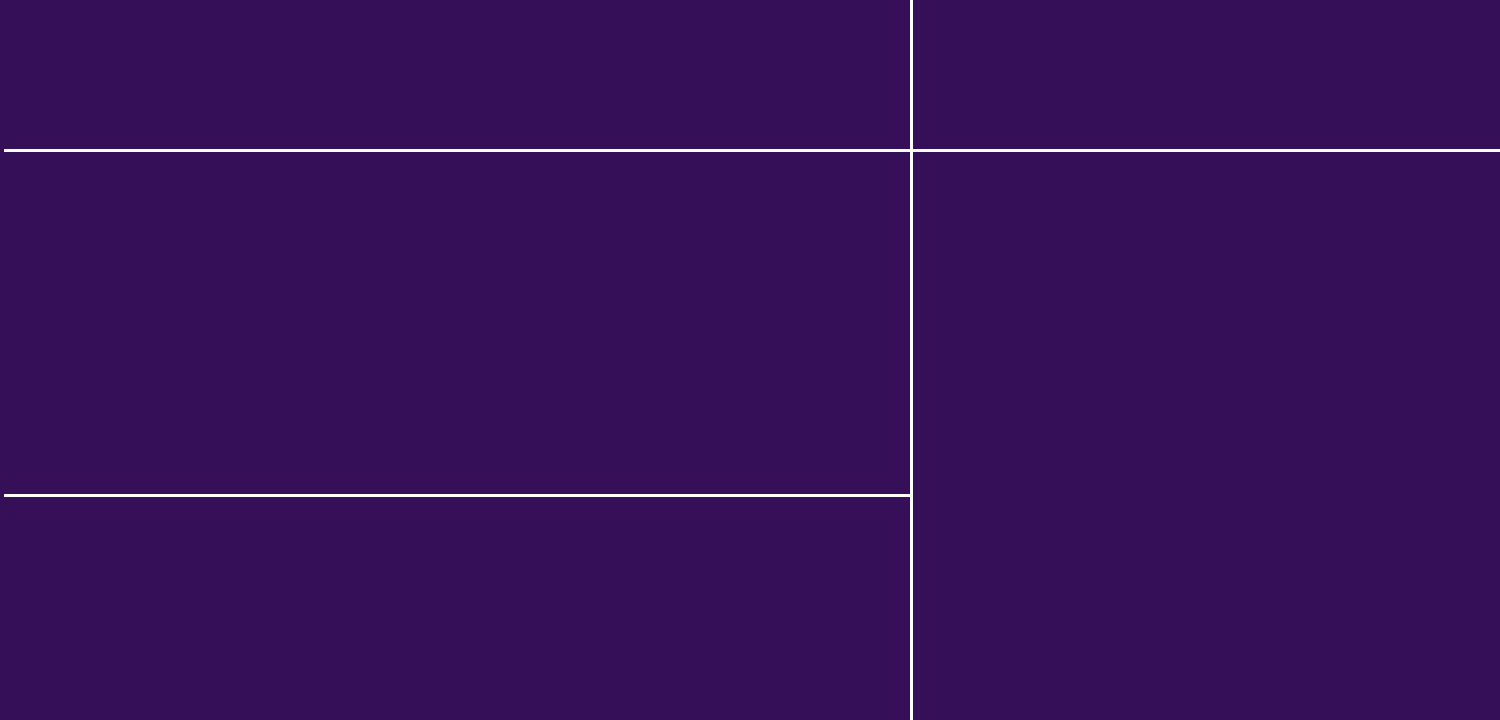
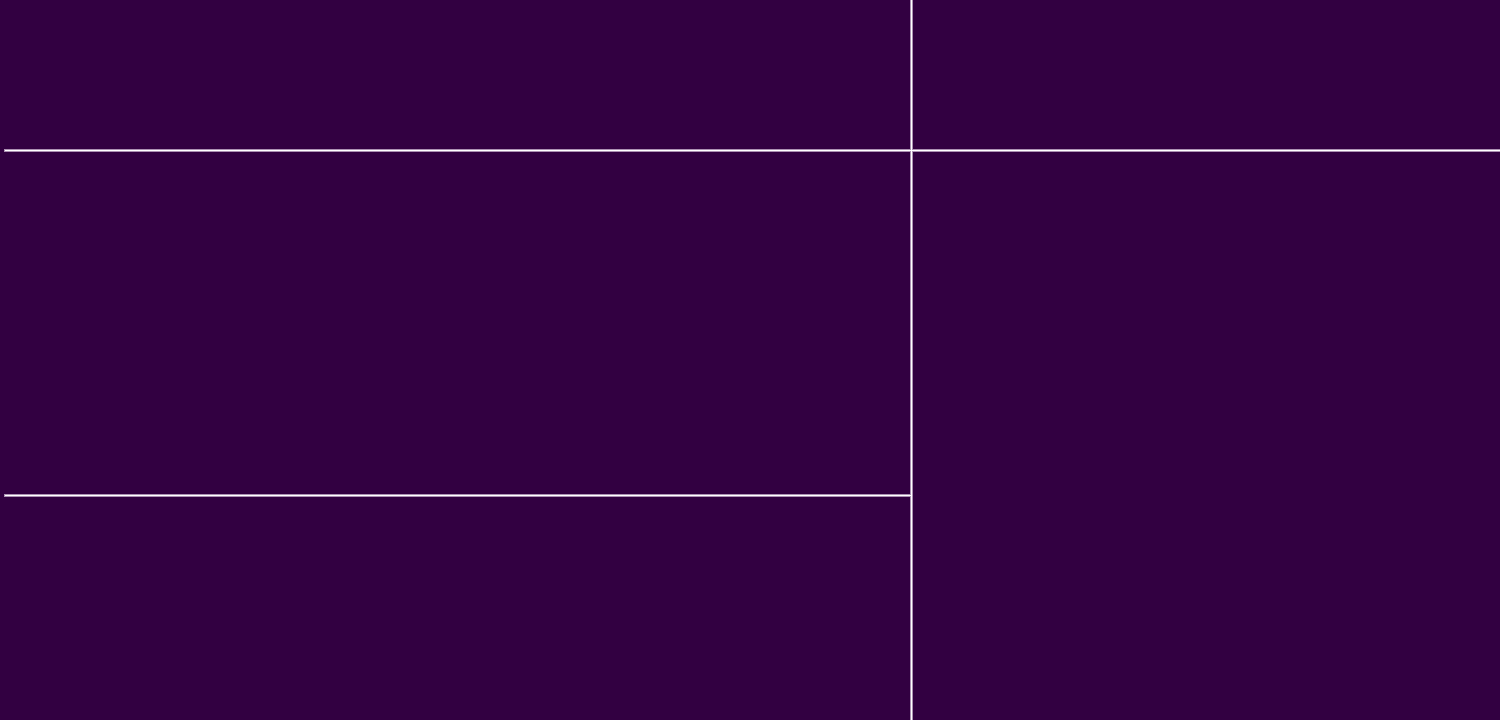
boi that gui color tho

Changed region(s): [[0.5827, 0.6722, 0.6133, 0.7028], [0.5827, 0.1833, 0.6133, 0.2139]]

diff --git a/ClassGUI-Format.py b/ClassGUI-Format.py
@@ -9,7 +9,7 @@ from Team import *
 SmallFont = ("Verdana", 20, "bold")
 myFont = ("Helvetica", 50)
 
-backgroundColor = '#350f58'
+backgroundColor = '#320041'
 btncolor = '#884dbc'
 
 TotalMoney = 100
@@ -144,24 +144,21 @@ class Page2(tk.Frame):
 
         # Labels
         self.Total_money = Label(self, font=SmallFont, text="Total gold:", bg=backgroundColor, foreground='white')
-        self.PlayerCost = Label(self, font=SmallFont, text="Cost", bg=backgroundColor, foreground='white')
+        self.PlayerCost = Label(self, font=SmallFont, text="Cost", bg=backgroundColor,foreground='white')
         self.SearchCost_Text = Label(self, font=SmallFont, text="Type to search after cost", bg=backgroundColor,
-                                     foreground='white')
+                                    foreground='white')
         self.Money = Label(self, font=myFont, text=TotalMoney, bg=backgroundColor, foreground='white')
         self.sortByCost_btn = tk.Button(self, font=SmallFont, bg=btncolor, highlightthickness=0, bd='0',
-                                        text="Sort After Cost",
-                                        command=self.Sort)
+                                        text="Sort After Cost", foreground='white', command=self.Sort)
 
         # Buttons
-        self.buy_btn = tk.Button(self, font=SmallFont, bg=btncolor, highlightthickness=0, bd='0', text="BUY",
+        self.buy_btn = tk.Button(self, font=SmallFont, bg=btncolor, highlightthickness=0, bd='0', text="BUY", foreground='white',
                                  command=self.BuyMenu)
         self.startGame = tk.Button(self, font=SmallFont, bg=btncolor, highlightthickness=0, bd='0', text="Start Game",
                                    command=lambda: controller.show_frame(Page3))
         self.searchByCost_btn = tk.Button(self, font=SmallFont, bg=btncolor, highlightthickness=0, bd='0',
-                                          text="SEARCH",
-                                          command=self.Search1)
-        self.clear_btn = tk.Button(self, font=SmallFont, bg=btncolor, highlightthickness=0, bd='0', text="CLEAR SEARCH",
-                                   command=self.clearSearch)
+                                          text="SEARCH", foreground = 'white',command=self.Search1)
+        self.clear_btn = tk.Button(self, font=SmallFont, bg=btncolor, highlightthickness=0, bd='0', text="CLEAR SEARCH", foreground='white', command=self.clearSearch)
 
         # Entry
         self.Search_cost = tk.Entry(self, bg=btncolor, font=SmallFont, foreground='white')
